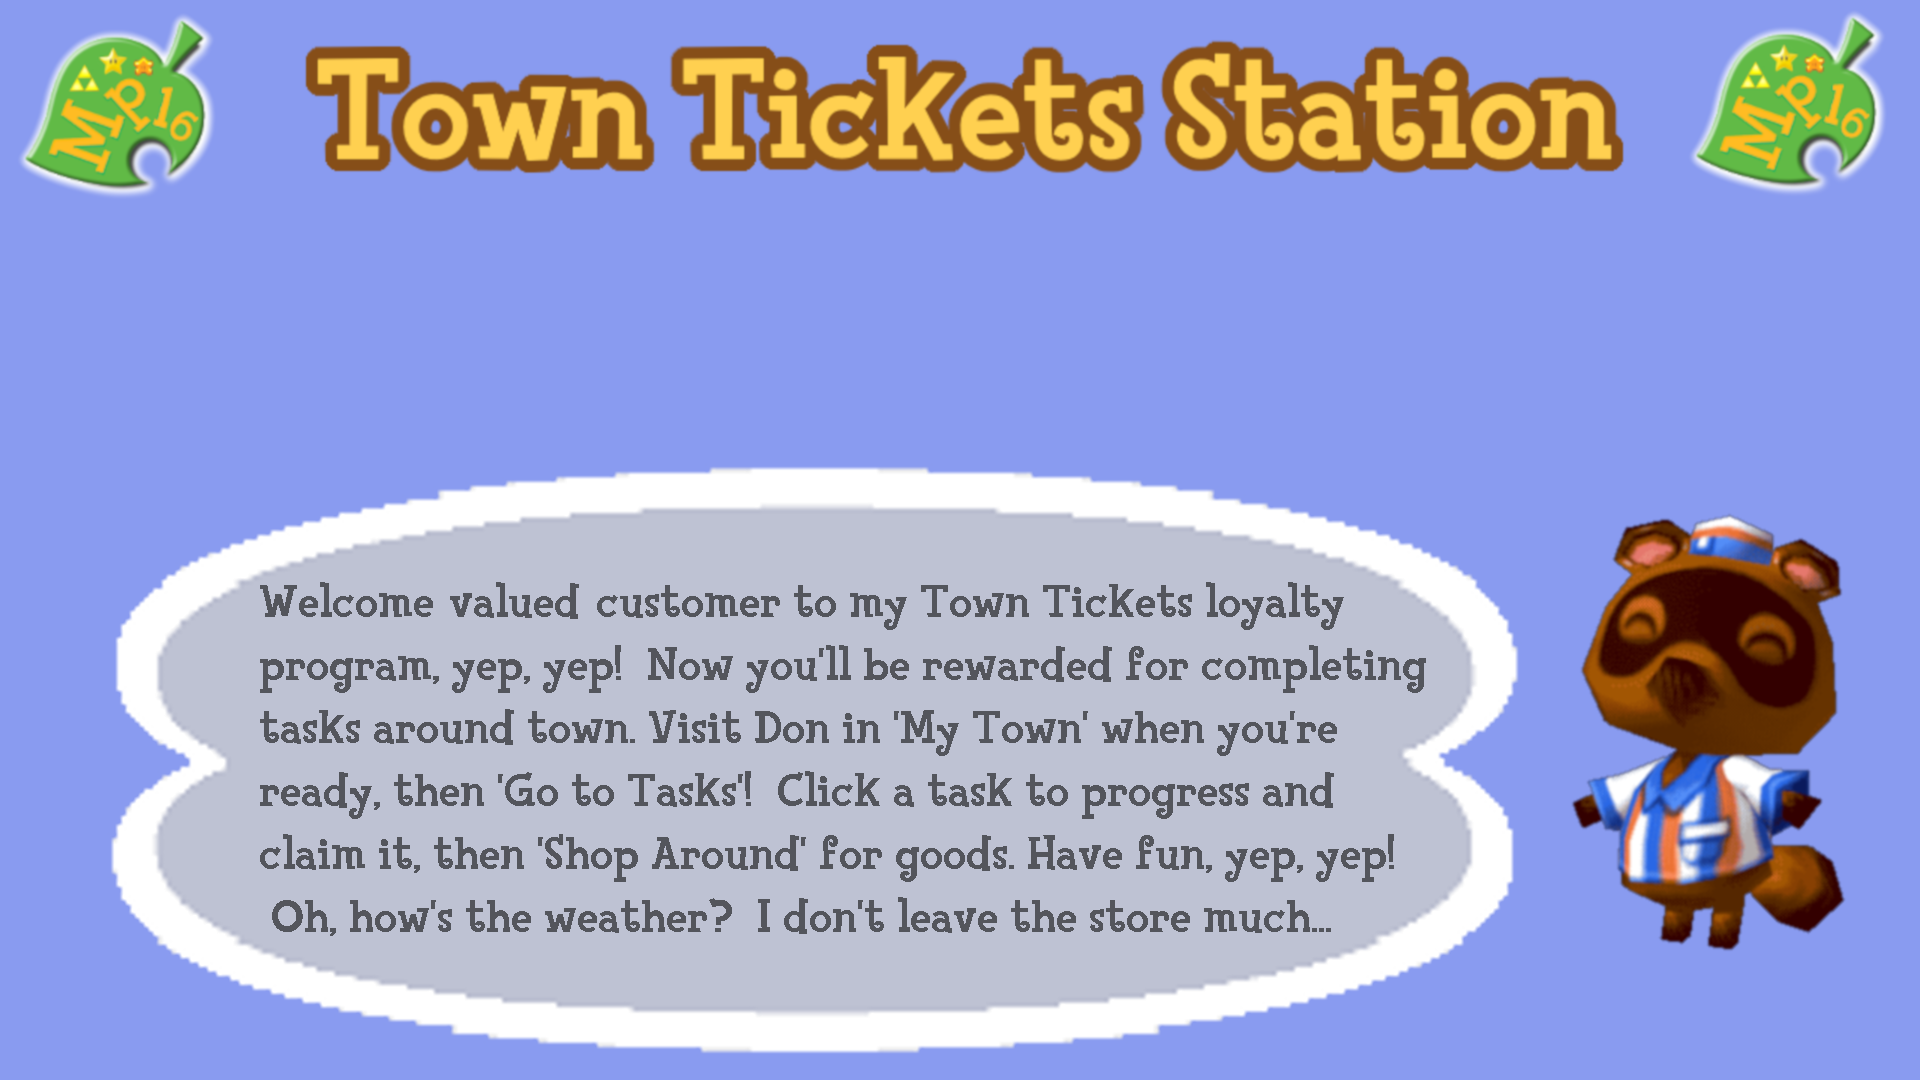
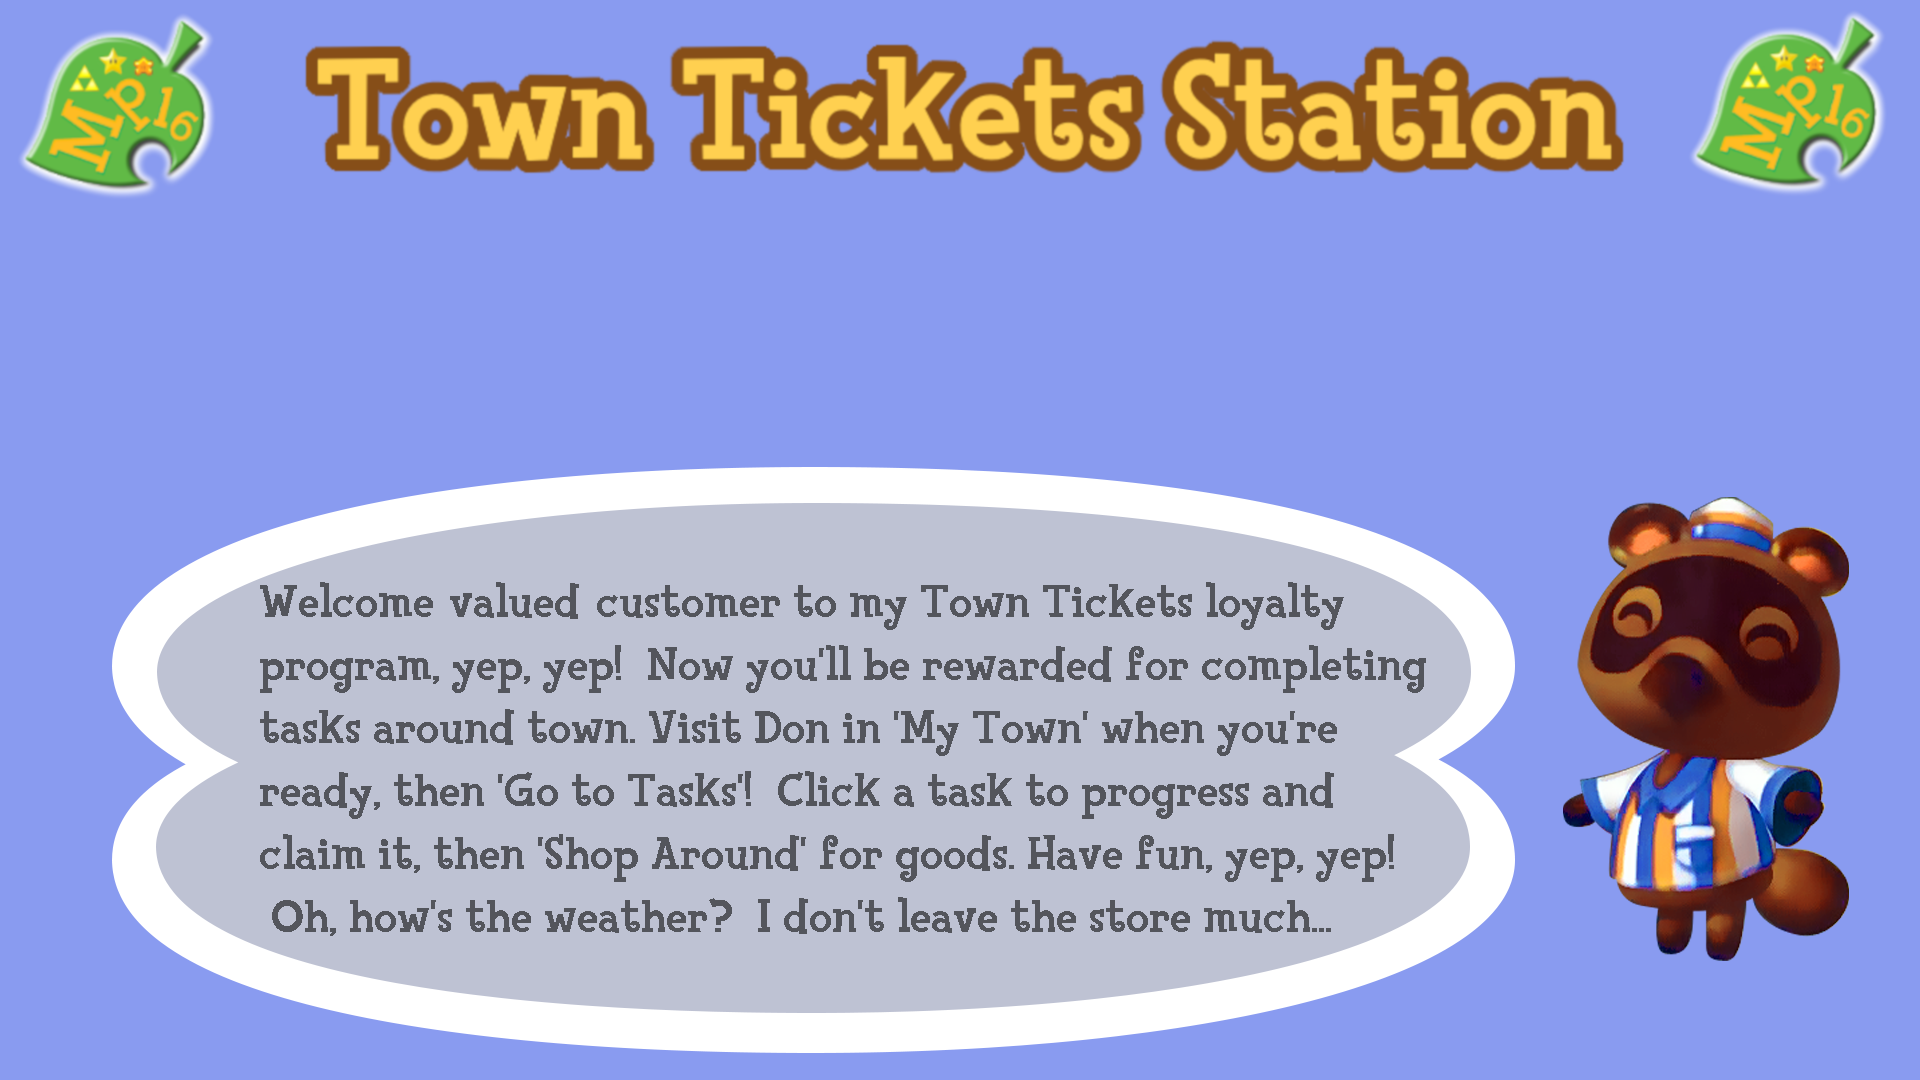
v1.6.3
Changelog:
1. Corrected Harvest Moon Event Dates
2. Replaced Main Background with Vectorized version
3. Fixed one invalid code in Catalog

diff --git a/Animal Crossing Town Ticket Station/Tasks.cs b/Animal Crossing Town Ticket Station/Tasks.cs
@@ -969,37 +969,37 @@ namespace Animal_Crossing_Town_Ticket_Station
 
             switch (now.Year)
             {
-                case 2000: intMoonMonth = 9; intMoonDay = 12; break;
+                
                 case 2001: intMoonMonth = 10; intMoonDay = 1; break;
                 case 2002: intMoonMonth = 9; intMoonDay = 21; break;
-                case 2003: intMoonMonth = 9; intMoonDay = 11; break;
+                case 2003: intMoonMonth = 9; intMoonDay = 10; break;
                 case 2004: intMoonMonth = 9; intMoonDay = 28; break;
                 case 2005: intMoonMonth = 9; intMoonDay = 18; break;
-                case 2006: intMoonMonth = 10; intMoonDay = 6; break;
-                case 2007: intMoonMonth = 9; intMoonDay = 25; break;
-                case 2008: intMoonMonth = 9; intMoonDay = 14; break;
-                case 2009: intMoonMonth = 10; intMoonDay = 3; break;
-                case 2010: intMoonMonth = 9; intMoonDay = 22; break;
+                case 2006: intMoonMonth = 10; intMoonDay = 7; break;
+                case 2007: intMoonMonth = 9; intMoonDay = 26; break;
+                case 2008: intMoonMonth = 9; intMoonDay = 15; break;
+                case 2009: intMoonMonth = 10; intMoonDay = 4; break;
+                case 2010: intMoonMonth = 9; intMoonDay = 23; break;
                 case 2011: intMoonMonth = 9; intMoonDay = 12; break;
                 case 2012: intMoonMonth = 9; intMoonDay = 30; break;
                 case 2013: intMoonMonth = 9; intMoonDay = 19; break;
                 case 2014: intMoonMonth = 9; intMoonDay = 9; break;
-                case 2015: intMoonMonth = 9; intMoonDay = 27; break;
-                case 2016: intMoonMonth = 9; intMoonDay = 15; break;
-                case 2017: intMoonMonth = 10; intMoonDay = 4; break;
-                case 2018: intMoonMonth = 9; intMoonDay = 24; break;
-                case 2019: intMoonMonth = 9; intMoonDay = 13; break;
+                case 2015: intMoonMonth = 9; intMoonDay = 28; break;
+                case 2016: intMoonMonth = 9; intMoonDay = 16; break;
+                case 2017: intMoonMonth = 10; intMoonDay = 5; break;
+                case 2018: intMoonMonth = 9; intMoonDay = 25; break;
+                case 2019: intMoonMonth = 9; intMoonDay = 14; break;
                 case 2020: intMoonMonth = 10; intMoonDay = 1; break;
-                case 2021: intMoonMonth = 9; intMoonDay = 21; break;
+                case 2021: intMoonMonth = 9; intMoonDay = 20; break;
                 case 2022: intMoonMonth = 9; intMoonDay = 10; break;
                 case 2023: intMoonMonth = 9; intMoonDay = 29; break;
-                case 2024: intMoonMonth = 9; intMoonDay = 17; break;
-                case 2025: intMoonMonth = 10; intMoonDay = 6; break;
-                case 2026: intMoonMonth = 9; intMoonDay = 25; break;
+                case 2024: intMoonMonth = 9; intMoonDay = 18; break;
+                case 2025: intMoonMonth = 10; intMoonDay = 7; break;
+                case 2026: intMoonMonth = 9; intMoonDay = 26; break;
                 case 2027: intMoonMonth = 9; intMoonDay = 15; break;
                 case 2028: intMoonMonth = 10; intMoonDay = 3; break;
                 case 2029: intMoonMonth = 9; intMoonDay = 22; break;
-                case 2030: intMoonMonth = 9; intMoonDay = 12; break;
+                case 2030: intMoonMonth = 9; intMoonDay = 11; break;
                 case 2031: intMoonMonth = 10; intMoonDay = 1; break;
                 case 2032: intMoonMonth = 9; intMoonDay = 19; break;
                 default: break;

diff --git a/Animal Crossing Town Ticket Station/ItemData.cs b/Animal Crossing Town Ticket Station/ItemData.cs
@@ -1304,7 +1304,7 @@ new ItemInfo("Rockin' K.K.", 0x2A1B, 1290, 1054, 497, 0, 0, 0, 10, "Music", "Com
 new ItemInfo("K.K. Ragtime", 0x2A1C, 1291, 593, 498, 0, 0, 0, 10, "Music", "Common", "None", 500, ACPassword.CodeType.Magazine, "WUcucDDDDDDDDDDDDDDDDDDDDDDD", Properties.Resources.ST_Aircheck_PG_Sprite),
 new ItemInfo("K.K. Gumbo", 0x2A1D, 1292, 585, 499, 0, 0, 0, 10, "Music", "Common", "None", 500, ACPassword.CodeType.Magazine, "wRxGqppppppppppppppppppppppp", Properties.Resources.ST_Aircheck_PG_Sprite),
 new ItemInfo("The K. Funk", 0x2A1E, 1293, 1265, 500, 0, 0, 0, 10, "Music", "Common", "None", 500, ACPassword.CodeType.Magazine, "BCdEGTmmmmmmmmmmmmmmmmmmmmmm", Properties.Resources.ST_Aircheck_PG_Sprite),
-new ItemInfo("K.K. Blues", 0x2A1F, 1294, 571, 501, 0, 0, 0, 10, "Music", "Common", "None", 500, ACPassword.CodeType.Magazine, "aaqq4esasxxBBu LLxaKSwcevVILk", Properties.Resources.ST_Aircheck_PG_Sprite),
+new ItemInfo("K.K. Blues", 0x2A1F, 1294, 571, 501, 0, 0, 0, 10, "Music", "Common", "None", 500, ACPassword.CodeType.Magazine, "", Properties.Resources.ST_Aircheck_PG_Sprite),
 new ItemInfo("Soulful K.K.", 0x2A20, 1295, 1134, 502, 0, 0, 0, 10, "Music", "Common", "None", 500, ACPassword.CodeType.Magazine, "WWeRdTTttttttttttttttttttttt", Properties.Resources.ST_Aircheck_PG_Sprite),
 new ItemInfo("K.K. Soul", 0x2A21, 1296, 601, 503, 0, 0, 0, 10, "Music", "Common", "None", 500, ACPassword.CodeType.Magazine, "nnOOGsmmmmmmmmmmmmmmmmmmmmmm", Properties.Resources.ST_Aircheck_PG_Sprite),
 new ItemInfo("K.K. Cruisin'", 0x2A22, 1297, 578, 504, 0, 0, 0, 10, "Music", "Common", "None", 500, ACPassword.CodeType.Magazine, "2bbbMONnnnnnnnnnnnnnnnnnnnnn", Properties.Resources.ST_Aircheck_PG_Sprite),
